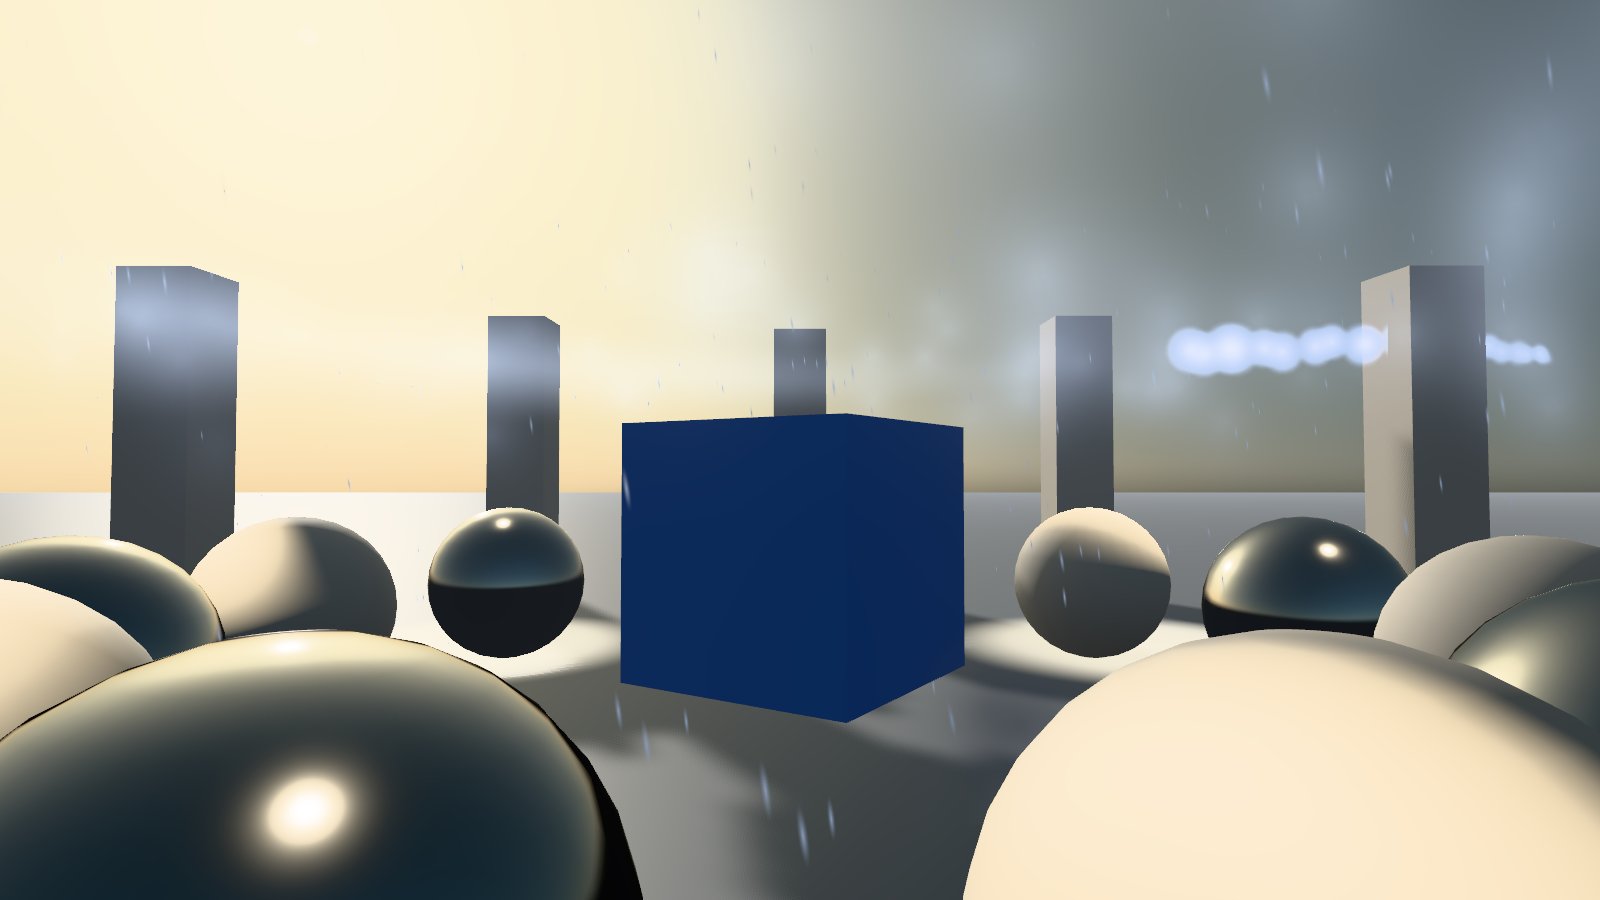
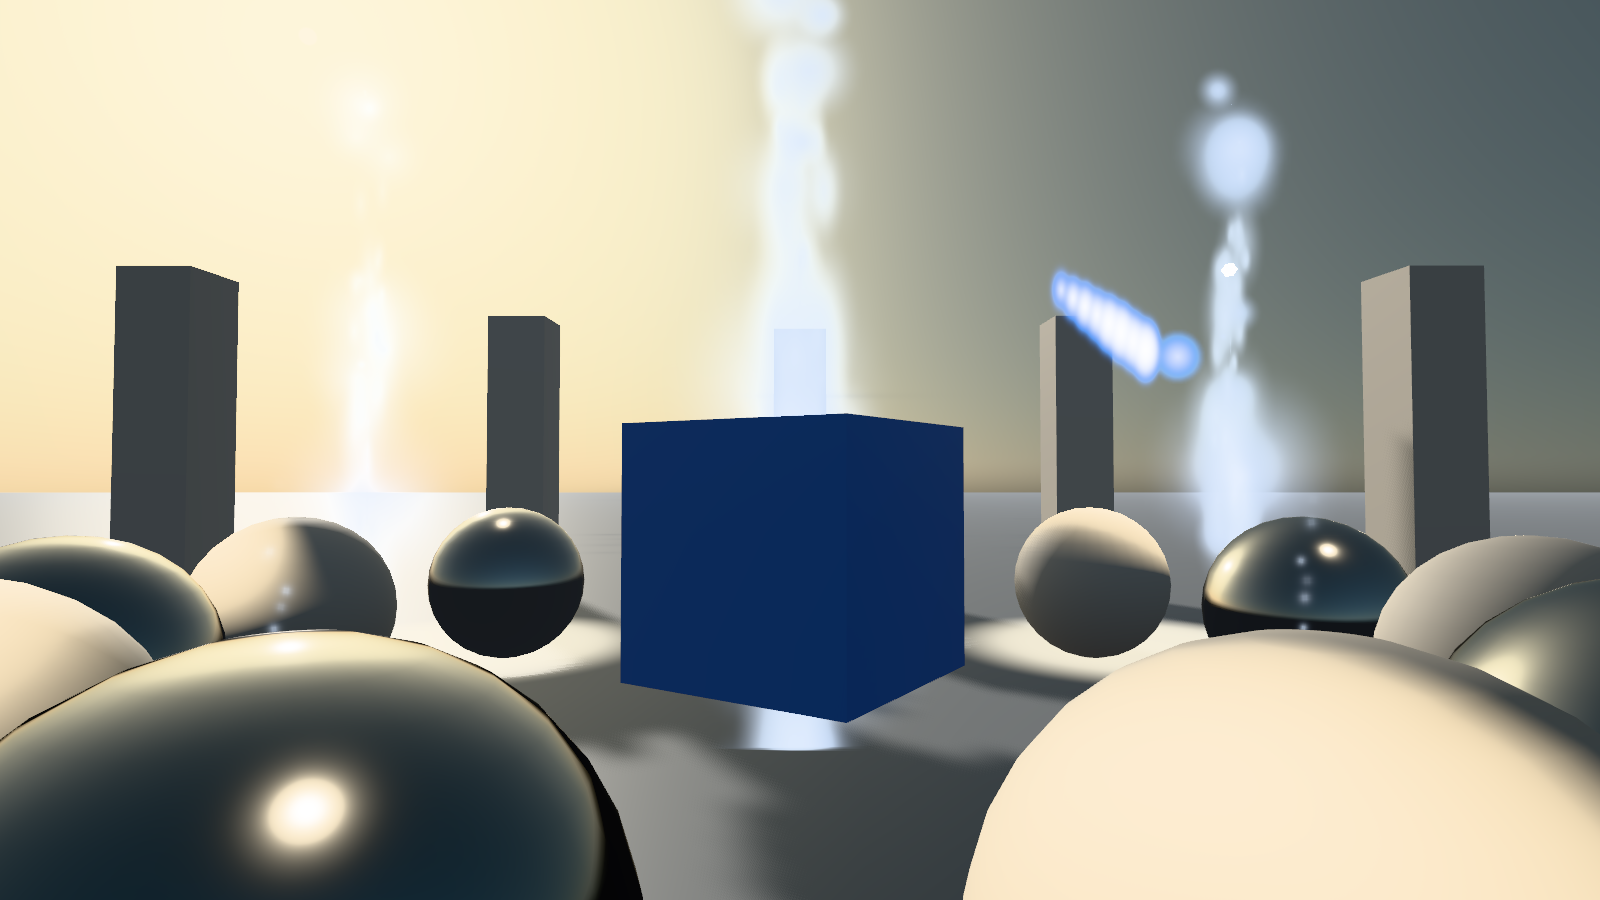
Lane X's shots and parity on the game's own effects; the stack page's gotchas
Claude-Session: https://claude.ai/code/session_01FoLbSZHYPLSHY4FcysRJev

diff --git a/src/lib/three/particles/gpu.test.js b/src/lib/three/particles/gpu.test.js
@@ -5,7 +5,7 @@ import { createSim, modeFor } from './gpu.js';
 
 // The compute pass itself runs in a browser: scripts/light-fixture.mjs
 // --particles steps it 120 frames beside the CPU and reads it back (the
-// plan's bar, 1 cm; 0.02 mm measured on the node renderer over WebGL 2).
+// plan's bar, 1 cm; 0.06 mm measured on two of the game's emitters, the node renderer over WebGL 2).
 // Here: the CPU path is emitter.js's step, and the GPU path lays the spawn
 // window out as the step does.
 

diff --git a/docs/superpowers/HANDOFF-galaxy-engine.md b/docs/superpowers/HANDOFF-galaxy-engine.md
@@ -26,7 +26,7 @@ One lane per session. R and T run at once and own different files (`src/lib/thre
 - **The tables**: Hoth's whole arena (`src/data/bf2017/fx/`, 21 effects, 57 emitters, 408 KB): the 19 effects its map places in the playable subworlds, the bolt into snow (lane P4's) and the TIE's contrail. The hangar powder's colour is the record's 12.7, its MaxSpawnDistance 55 and ParticleCullingFactor 0.8, as the spec read them. `graph: true`: `FX_Snow_Placeable_Caverns` (EG_Snow_Placeable_Generic → em_snow_dust_drifting_ground, the graph's overrides applied, its count held to `GRAPH_MAX_COUNT` 2,000) and `FX_Impact_Blaster_Snow` (EG_CheapImpact → em_impact_blaster_clustershot_generic_implodedistortion_m); three Walrus graphs (`FX/Tech/…_Walrus`) have no document in their family and are listed as missing.
 - **Hoth's spawns**: `public/models/galaxy/bf2017/levels/hoth/effects.json` (43 KB): 398 of the map's 648 spawns (244 in other modes' and weathers' subworlds, 6 outside the arena), 21 cells, every effect with its table. The export's `autoStart` is kept: the hangar's ceiling dust (152) and the transports' engines (35) wait for the level's events; the steam, smoke, light cones and falling snow start.
 - **The system**, `src/lib/three/particles/`: `emitter.js` (the pure step: seeded spawns hashed from each particle's serial into boxes, shells and cones, gravity, drag towards the wind, following, the emitter's offset; spawnCount with the record's loops and one-shots; the distance thinning; the stretch over the speed normalisation; the light wrap; ribbon trails), `gpu.js` (the same step as one TSL compute dispatch an emitter a frame on WebGPU; the CPU step into instanced attributes on WebGL 2), `sprites.js` (one instanced quad mesh an emitter: the record's alignments, two-sided sizes, spawn and life rotation, frames, HDR colour, a glow's exposure factor, the sun's wrapped term, a shadow node when given, soft depth, fog; mesh emittables; the ribbon strip), `effects.js` (`createEffects`: pools, the variant by tier, per-tier cull and cap, NearbyRadius, per-emitter probability and delay, autoStart, one-shots ending, parents, a level's cells), `sheets.js`. 44 tests.
-- **The proof**: `node scripts/light-fixture.mjs --particles` into `docs/superpowers/evidence/galaxy-engine/X/` (Hoth's steam, smoke and falling snow, a bolt into snow, a GR-75's engine and a TIE's contrail on ships; a 6 m/s pan). GPU against CPU after 120 frames on two of the game's emitters (a box with drawn directions; a sphere with drag and wind): worst distance in the PR (the node renderer over WebGL 2, its compute through transform feedback). The WebGPU leg dies on the cloud's SwiftShader device (B5).
+- **The proof**: `node scripts/light-fixture.mjs --particles` into `docs/superpowers/evidence/galaxy-engine/X/` (Hoth's steam, smoke and falling snow, a bolt into snow, a GR-75's engine and a TIE's contrail on ships; a 6 m/s pan). GPU against CPU after 120 frames on two of the game's emitters (a box with drawn directions; a sphere with drag and wind): worst distance 0.061 mm over 1,160 live slots, every slot alive on both or neither (the node renderer over WebGL 2, its compute through transform feedback). The WebGPU leg dies on the cloud's SwiftShader device (B5).
 - Found on the way: three r186's `softParticles` does not compile on WebGL 2 (a parameter named `input`); written out in `sprites.js`.
 
 **Left**:

diff --git a/docs/stack/webgpu-tsl.md b/docs/stack/webgpu-tsl.md
@@ -75,6 +75,9 @@ Last upgrade: not recorded; record the next one here, with what it broke.
 - **A sun that moves with the clock.** Two shots of Earth a minute apart differ, so a picture diff freezes the page clock first (the WebGPU plan’s Review Focus 5).
 - **A LUT or SMAA on linear HDR.** `Lut3DNode` indexes 0…1; given the scene pass before tone mapping it clamps every bright pixel to its last cell and the frame goes white. `passes.js` applies `renderOutput` before the first of them and switches the pipeline’s own output transform off, as three’s examples do.
 - **The headless WebGPU leg.** In the cloud container Chromium makes a SwiftShader WebGPU device and loses it on the first frame, even under a bare cube (`scripts/gpu-parity/README.md`), so `light-fixture.mjs`’s webgpu leg fails there and does not gate; the owner’s laptop runs it.
+- **three's `softParticles` does not compile on WebGL 2** (r186): its contrast curve's `Fn` names a parameter `input`, a reserved word in GLSL, so the fragment shader fails on the node renderer over WebGL 2. `src/lib/three/particles/sprites.js` writes the same sum with its own names; found on the lit fixture (`--particles`).
+- **Compute on WebGL 2 runs, and agrees.** The node renderer's WebGL 2 backend runs a `compute()` through transform feedback, `u32` arithmetic included: the particles' twin stepped there 120 frames on two of the game's emitters lands within 0.06 mm of the CPU step (`docs/superpowers/evidence/galaxy-engine/X/`). The site still steps particles on the CPU there (`gpu.js`'s `modeFor`): the transform-feedback path is not measured on a real chip yet.
+- **A compute node's uniforms update per call.** A `uniformArray` is `NodeUpdateType.RENDER`, and `renderer.compute` advances the frame's render id, so arrays written before each `compute` (the spawn batches, the owners) are uploaded for that dispatch.
 - **Device loss is a downgrade, not a retry.** After a lost WebGPU device the runtime stays on WebGL for as long as it lives (`lostWebGPU`, set by `lost()` in `src/runtime/runtime.js`).
 
 ## The number
